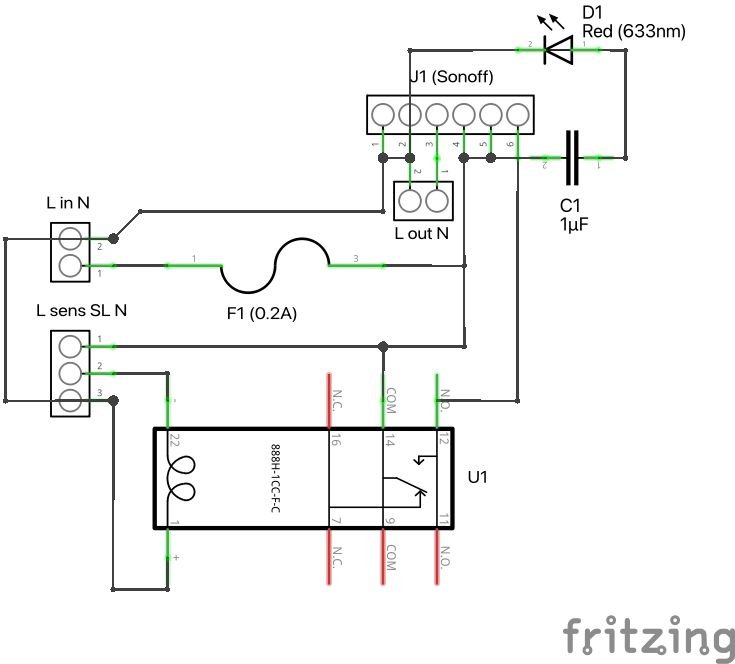
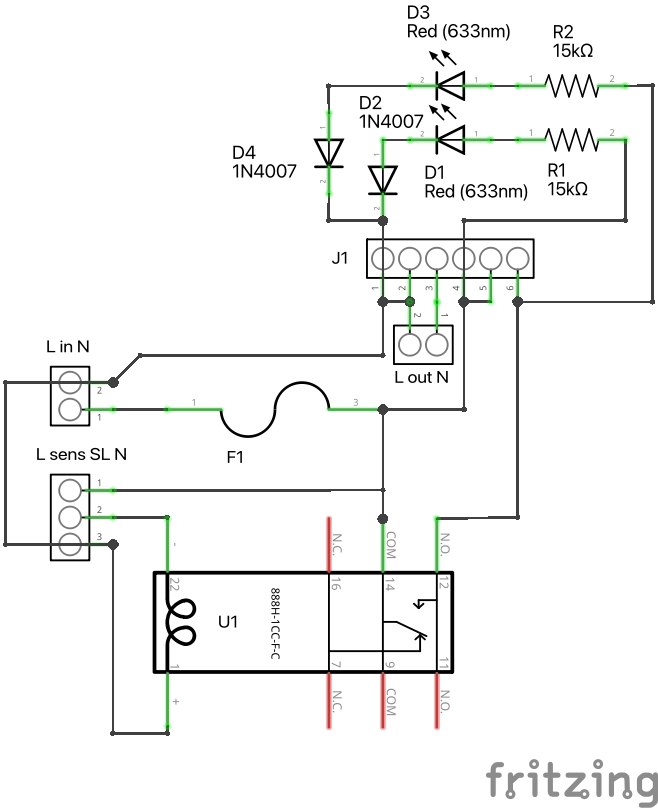
Add status LEDs to V2 board, update list of parts

Changed region(s): [[0.0, 0.0, 1.0, 0.9337], [0.7295, 0.9337, 1.0, 0.994], [0.3343, 0.1807, 0.4559, 0.241]]

diff --git a/README.md b/README.md
@@ -37,6 +37,16 @@ The Sonoff should be configured to send a signal to the smart lighting controlle
 
 ### ⚠️ WARNING: This circuit uses live mains voltage, which can kill!
 
+The risks include:
+
+* Fire,
+* Electric shock,
+* Personal injury,
+* Property damage,
+* Death.
+
+Neither the Sonoff device nor this home-made board are CE approved. If you follow these instructions, it is **entirely at your own risk**.
+
 Do not attempt to build this circuit unless you are sufficiently skilled and comfortable with soldering, and observe all sensible safety precautions, including but not limited to:
 
 * Test the circuit thoroughly before connecting to the mains, as described below under Testing.
@@ -49,8 +59,6 @@ Do not attempt to build this circuit unless you are sufficiently skilled and com
 * Permanently install the board in a sealed, waterproof box which cannot be opened accidentally.
 * Protect the board from water by sealing all holes in the box with rubber grommets and cable glands.
 
-Note that the Sonoff device and this home-made board are not CE approved, and if either of them causes a fire it is entirely your responsibility.
-
 ## Bill of materials
 
 | Component   | Code  | Qty | Cost  | Link | Notes |
@@ -58,8 +66,9 @@ Note that the Sonoff device and this home-made board are not CE approved, and if
 | Stripboard  |       | 1   | £4.80 | https://cpc.farnell.com/kemo-electronic/e005/stripboard-fr4-100x160mm/dp/PC01603 |
 | Fuse holder | F1    | 1   | £0.67 | https://uk.rs-online.com/web/p/fuse-holders/8930574 |
 | Glass fuse  | 0.2 A | 1   | £0.06 | https://www.amazon.co.uk/dp/B0CD1Z6TDH | 
-| Capacitor   | C1    | 1   | £0.40 | https://uk.rs-online.com/web/p/film-capacitors/2011934 |
-| LED         | D1    | 1   | £0.15 | https://uk.rs-online.com/web/p/leds/2285916 |
+| Resistor    | R1,R2 | 2   | £0.44 | https://uk.rs-online.com/web/p/through-hole-resistors/7078918 | 2W carbon film 15k ohms |
+| LED         | D1,D3 | 2   | £0.60 | https://uk.rs-online.com/web/p/leds/2285916 | Cheap, simple red LED |
+| Diode       | D2,D4 | 2   | £0.12 | https://uk.rs-online.com/web/p/schottky-diodes-rectifiers/6491143 | 1N4007, 1kV rated |
 | Sonoff connector | J1 | 1 | £2.54 | https://uk.rs-online.com/web/p/pcb-headers/1800623 | 0.2" pin spacing to mate with Sonoff |
 | PCB Power Relay | U1 | 1  | £5.53 | https://uk.rs-online.com/web/p/power-relays/6803820P | 230V AC Coil |
 | PCB terminal, 2 way | L in/out| 2 | £1.08 | https://cpc.farnell.com/camdenboss/ctb3000-2/pcb-terminal-45deg-low-prof-5mm/dp/CN19467 | 45 Degree Low Profile, 5mm spacing |
@@ -78,13 +87,24 @@ And you might want to use rigid 20mm [conduit](https://www.screwfix.com/p/deta-t
 
 Mark the stripboard to size of outline of board, plus any edges, cutouts and holes needed to hold it in place inside its case (see above). Ensure that the strips run in the correct direction before cutting!
 
-Print out a copy of the breadboard layout, and glue it to the top side of the board (you can use pritt stick for this). Ensure tha the holes on the print line up with the holes pre-drilled in the board before the glue sets:
+Print out a copy of the breadboard layout, and glue it to the top side of the board (you can use pritt stick for this). Ensure that the holes on the print line up with the holes pre-drilled in the board before the glue sets:
 
 ![Breadboard with printed layout glued on](IMG_8428.jpg)
 
 Cut along the lines with a junior hacksaw. Cut from the edges towards the middle of the board, otherwise it may snap. Sand down the sharp cut edges for safety.
 
 ![Breadboard cut to shape](IMG_8430.jpg)
+
+The copper track on the underside must be cut completely in some places:
+
+* Between the pins of the fuse (F1).
+* Between the Sonoff (J1) left neutral (N) pin and the *L in* terminal.
+* Between the right end of the fuse (F1) and the *N out* terminal.
+* Below both pins of LED D3.
+* Midway underneath the jumper left of the U1 marking.
+* Between the SL terminal and the LED D1.
+* Between the SL terminal and the Sonoff (J1) pin S2.
+* Between the top and bottom rows of pins of the relay (U1).
 
 Poke a pin through the paper (into the pre-drilled hole below) where the where the tracks should be cut, so you can see through the holes from the other side, then gently drill with a 3mm bit from the other side, **not** all the way through the board, just enough to break the copper track completely (both sides):
 
@@ -132,3 +152,13 @@ With no wires connected to the PCB terminals, no glass fuse installed, no Sonoff
   * The other two N terminals,
   * The N pin of the Sonoff (J1).
 * No continuity between any of the Live terminals and any of the Neutral terminals.
+
+With no glass fuse (F1) or Sonoff (J1) installed, connect mains power to *L in N* and verify that the power LED does not light, and there is no power (250V AC) to any terminal except *L in*.
+
+Power off and install a glass fuse in F1. Power on and check that the Sonoff pin 4 (*L In*) and *L sens* are live (250V AC) and the power LED (D1) lights.
+
+Power off and install the Sonoff on J1. Power on and check that its LED flashes.
+
+Power off and connect the PIR sensor to *L send SL N*. Power on and check that the relay clicks and the switch LED (D3) lights briefly when the power is applied or when the PIR sensor is triggered.
+
+Add the Sonoff to the eWeLink app on a phone and check that its output (shown in the app) goes high when the PIR sensor is triggered (and D3 is lit), and off when the PIR sensor relaxes (and D3 is off),